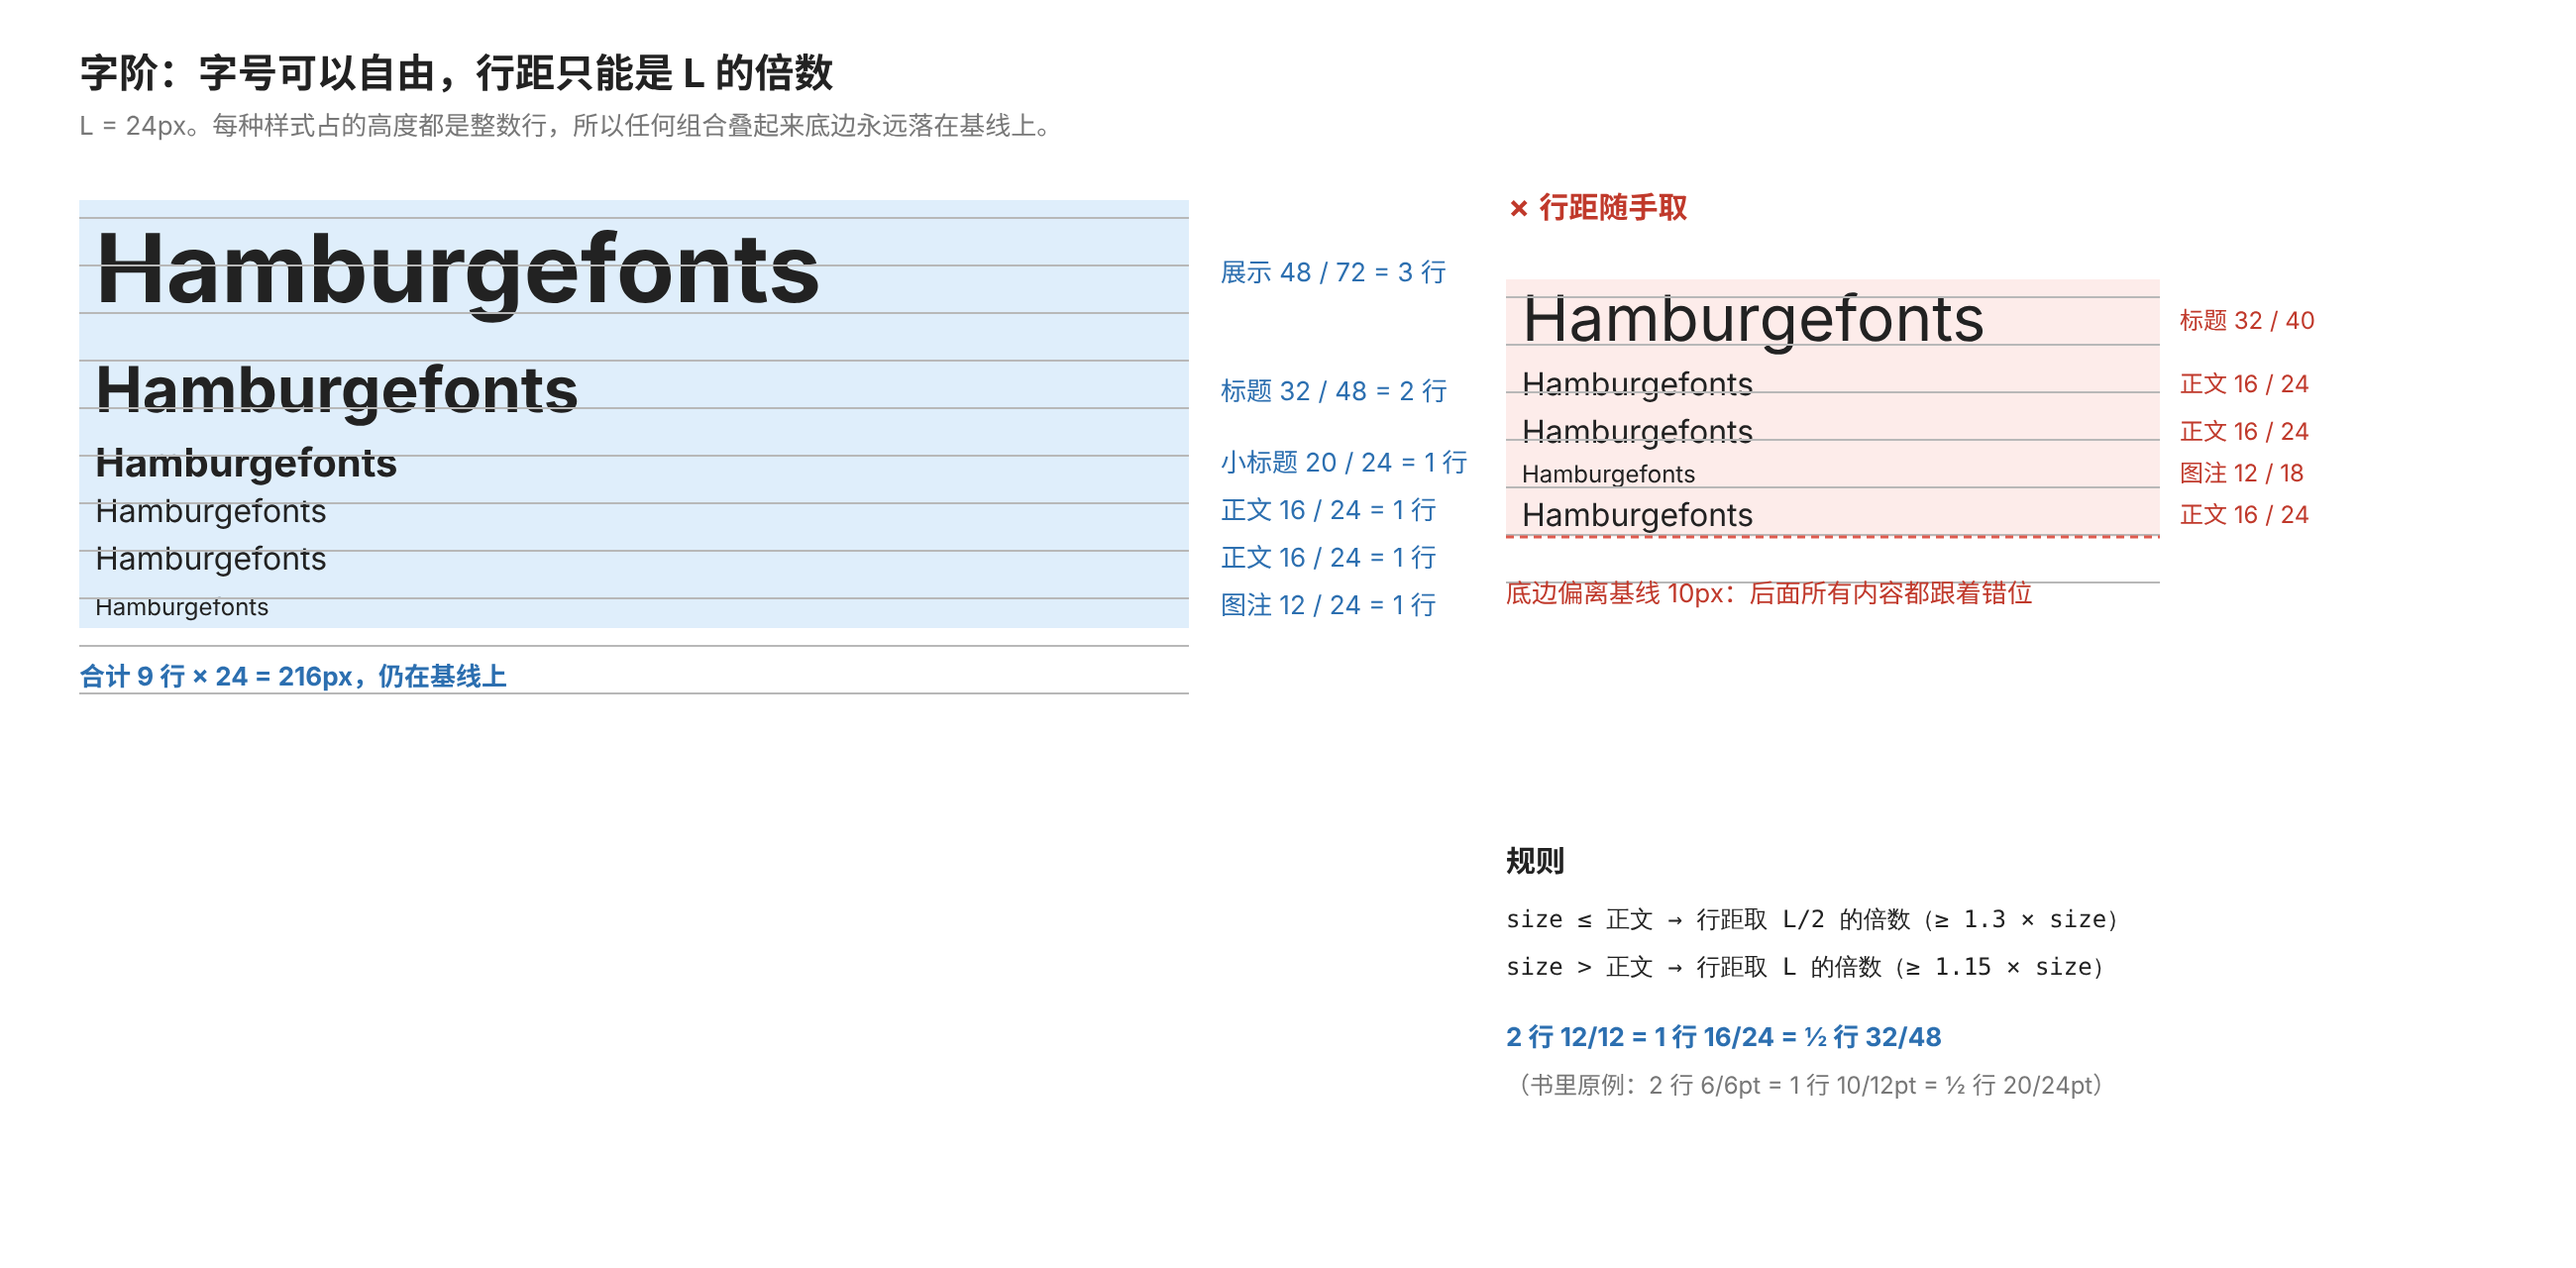
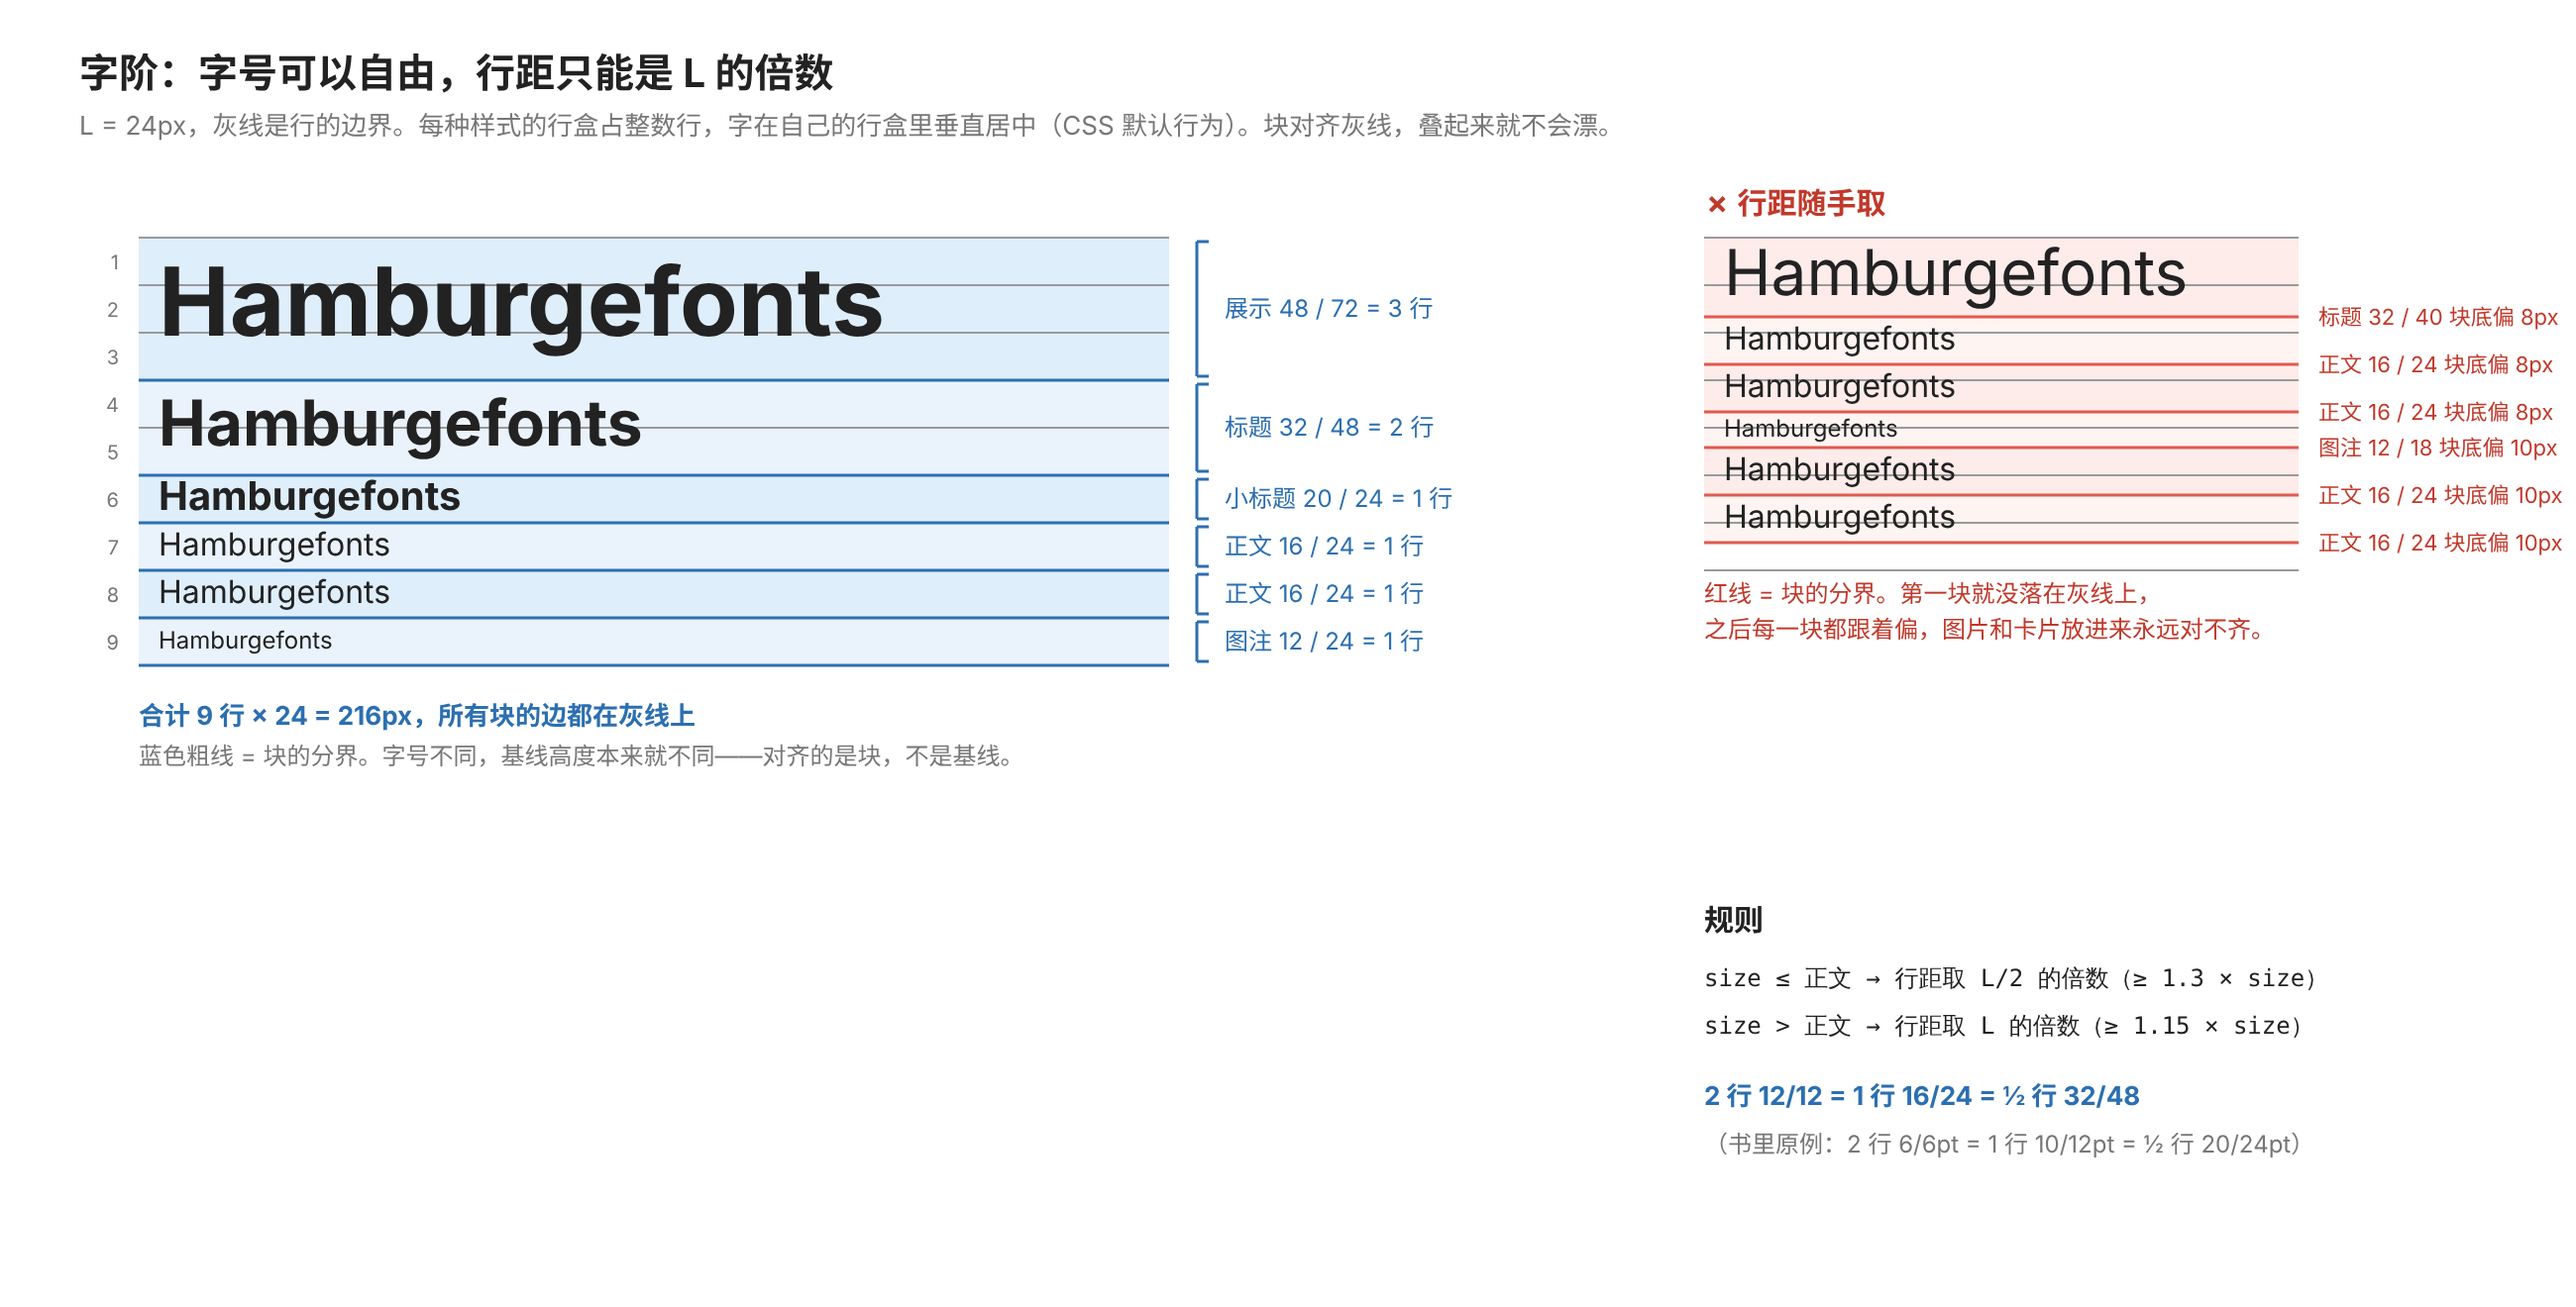
v0.1.3

diff --git a/spacing.md b/spacing.md
@@ -21,7 +21,7 @@
 - 横向（左右 padding、column-gap、margin-left/right）：刻度上任意取。
 - 纵向（上下 padding、row-gap、margin-top/bottom）：只取 `L` 或 `L/2` 的倍数。L=24 时纵向可用 **12 / 24 / 48**，不可用 4、8、16、20、32。L=32 时纵向可用 16 / 32 / 64。
 - `L` 和 `L/2` 不在刻度里时加进去（L=28 → 加 1.75rem 和 0.875rem）。
-- 容器上下 padding 之和必须是 L 的倍数（12+12 可以，20+20 不行），容器总高 = n × L。
+- 容器上下 padding 取 L 的倍数，容器总高 = n × L。padding = L 时卡片内外文字在同一套基线上；padding = L/2 也允许，但卡片内文字会落在半行上，只保证卡片之后的内容回到基线；20 + 20 这种不行。
 - 按钮、输入框、标签、图标豁免：自身高度不要求对 L，只要它们所在那一行加起来是整行。
 
 实现前提：样式里 padding / margin / gap 写 rem 不写死 px，根基准只在 `html { font-size: 16px }` 定一次。展示用的 HTML prototype 建议锁死 `html { font-size: 16px; text-size-adjust: 100%; }`。
@@ -41,7 +41,7 @@
 - 横向扫描时字符宽度不均、噪音多，需要更多留白；文字高度稳定，上下留太多显得臃肿。上下 = 左右会让按钮又高又胖。
 
 ### 3. 容器要给够呼吸感
-- 卡片 / 面板 padding 常用 `1.25rem` 横向、`L/2` 或 `L` 纵向。
+- 卡片 / 面板 padding 常用 `1.25rem` 横向、`L` 纵向（要半行紧凑感时用 `L/2`，代价是卡片内文字落在半行上）。
 - `1rem` 是横向及格线，低于这个内容显得压抑。
 
 ### 4. 从大到小试，不要从小往上加
@@ -84,7 +84,7 @@
 | 组间 | 16–32 | 24–48 |
 | 按钮内边距 | 16–24 | 8–12（按钮豁免） |
 | 按钮组之间 | = 按钮水平内边距 | — |
-| 卡片 / 面板内边距 | 16–20 | 12 或 24 |
+| 卡片 / 面板内边距 | 16–20 | 24（严格对基线）/ 12（内部半行） |
 | 圆角（标准） | ≈ 容器横向 padding | |
 | 圆角（胶囊） | ≥ 1.5 × padding | |
 | 圆角（方正） | < padding | |

diff --git a/SKILL.md b/SKILL.md
@@ -27,7 +27,7 @@ Figma 变量导出的命名在 `baseline-grid.md` 末尾。
 
 1. **纵向与横向分开管。** 纵向距离（row-gap、上下 padding、上下 margin、块高度）只取 `L` 的整数倍或 `L/2`；横向距离按 rem 刻度自由取。
 2. **L 必须是 4px 的倍数，最好是 8px 的倍数**（根字号 16px 时 24、32 都好；20 可用但刻度会碎）。`L` 和 `L/2` 必须出现在 rem 刻度里，不在就把它们加进去。
-3. **容器总高 = n × L；上下 padding 之和 = L 的倍数。** 卡片可以 12 + 12，不可以 20 + 20。
+3. **容器总高 = n × L，上下 padding 取 L 的倍数。** padding 24 时卡片内外文字在同一套基线上；12 + 12 也允许，但卡片内文字落在半行上，只保证卡片之后的内容回到基线；20 + 20 不行。
 4. **小组件豁免。** 按钮、输入框、标签、图标不要求自身高度对基线，只要它所在的那一行总高是整数行。
 5. **项目固定尺寸优先于基线。** 项目规范写死的组件尺寸不动，基线只管内容区。
 6. **代码写法服从 `figma-structure.md`。** 网格用 flex + gap 表达，不用 `display: grid`（真二维图片墙除外）；token 数值不变，只换写法。
